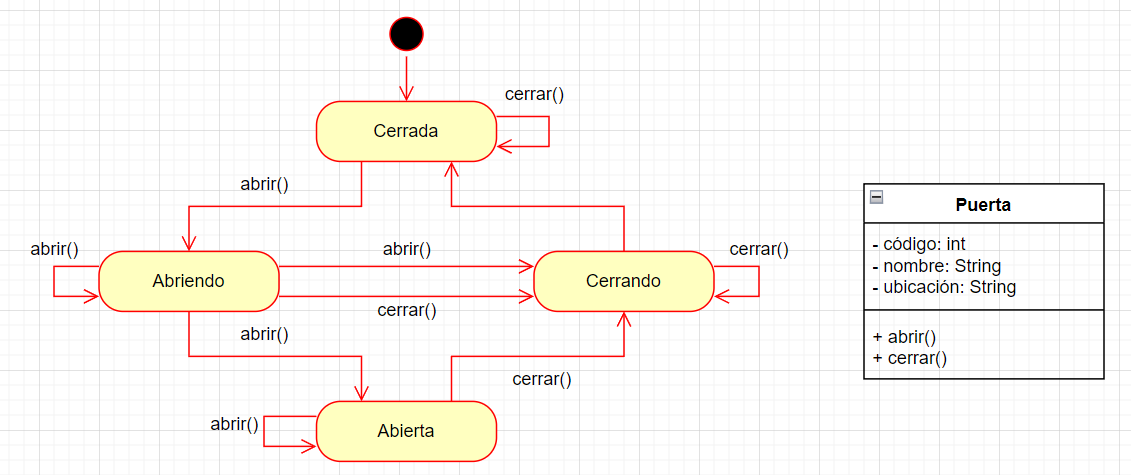
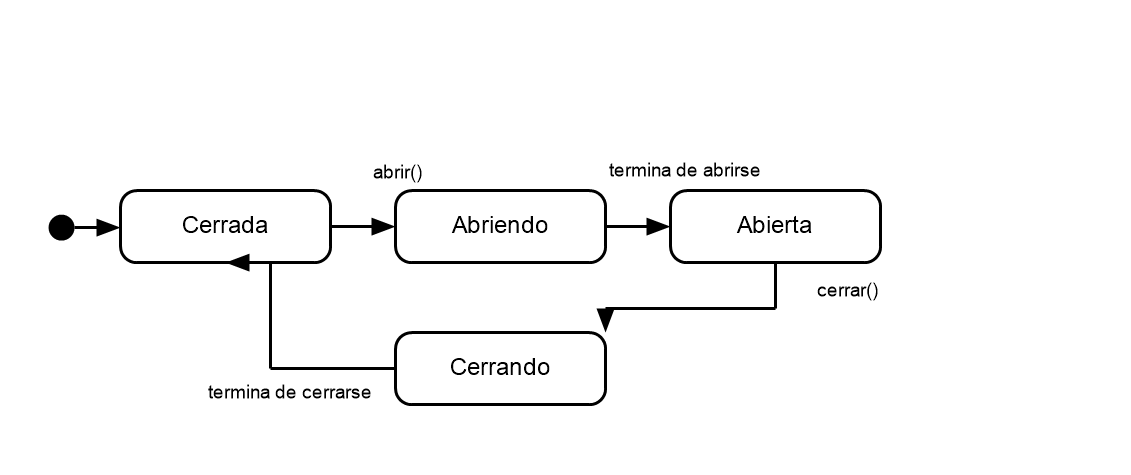
preparando tema 6

Changed region(s): [[0.0309, 0.0295, 0.9903, 1.0], [0.9593, 0.5011, 0.9903, 0.5305], [0.7427, 0.7663, 0.7737, 0.7958]]

diff --git a/UD6_DiagramasComportamiento.md b/UD6_DiagramasComportamiento.md
@@ -1,0 +1,93 @@
+# UD6 - Elaboración de diagramas de comportamiento
+
+- [UD6 - Elaboración de diagramas de comportamiento](#ud6---elaboración-de-diagramas-de-comportamiento)
+  - [1. Diagramas de casos de uso](#1-diagramas-de-casos-de-uso)
+  - [2. Diagramas de secuencia](#2-diagramas-de-secuencia)
+  - [3. Diagramas de estados](#3-diagramas-de-estados)
+
+Los diagramas de comportamiento UML sirven para visualizar el comportamiento dinámico de un sistema. Reflejan como cambian a lo largo del tiempo determinadas actividades del sistema.
+
+Se utilizan para entender el comportamiento que deben tener determinados procesos y mostrar el funcionamiento global del sistema a través de los diferentes procesos que ejecuta.
+
+## 1. Diagramas de casos de uso
+
+`Los Casos de Uso` describen el comportamiento de un sistema desde el punto de vista del usuario. Se utiliza para describir la funcionalidad del sistema independientemente de la implementación.
+
+`Un Caso de Uso` es el único elemento de UML que describe el sistema desde el punto de vista del usuario. Entender el punto de vista del usuario es fundamental para crear sistemas que cumplan con los requerimientos de quién lo va a utilizar y para que sea sencillo de trabajar con ellos. Los casos de uso son fundamentales en la fase de análisis de un sistema, donde se estudia y representa la forma en que los usuarios utilizan un sistema.
+
+Los diagramas de casos de uso son una herramienta que permite que los usuarios potenciales hablen de un sistema desde su propio punto de vista. Implica involucrar a los usuarios en las etapas iniciales de análisis y diseño del sistema. Desde ese punto de vista, definimos un` Caso de Uso` como un conjunto de situaciones respecto a la utilización del sistema.
+
+![](img/EjemploCasoUso.png)
+
+A continuación se explican los diferentes elementos de un diagrama de casos de uso:
+
+- **Actor**: Representa el rol de un usuario del sistema. Todo aquel elemento que interactúa con el sistema
+  - Tipos de actores:
+    - Principales: personas que usan el sistema
+    - Secundarios: personas que mantienen o administran el sistema
+    - Material externo: dispositivos materiales imprescindibles que forman parte del ámbito de la aplicación y deben ser utilizados
+    - Otros sistemas: otros entornos con los que el sistema interactúa
+- **Caso de Uso**: Indica un proceso dentro del propio sistema
+- **Relación**: Cualquier tipo de unión entre elementos del diagrama. Permite conocer las dependencias de los distintos elementos del diagrama, formando secuencias de `Casos de Uso` que representan procesos completos.
+- **Comunicación**: Relación que indica que `un Actor` o `Caso de Uso origen` utiliza `un Caso de Uso destino`. Forma secuencias de Casos de Uso y es el tipo de relación más utilizada.
+- **Inclusión**: Utilizado cuando una instancia del `Caso de Uso origen` incluye también el comportamiento descrito por el `Caso de Uso destino`. Utilizado para Casos de Uso más complejos que requieren la utilización de otros Casos de Uso. No puede utilizarse en la relación Actor-Caso de Uso. Se representa mediante una línea a puntos acompañada de _<< include >>_.
+
+![](img/CasoInclude.png)
+
+- **Extensión**: `El Caso de Uso origen` extiende el comportamiento del `Caso de Uso destino`. Tanto la inclusión como la extensión se hace en puntos indicados y de manera específica dentro de una secuencia de casos de uso. No se permite en la relación Actor-Caso de Uso. Se representa mediante una línea a puntos acompañada de _<< extend >>_.
+
+![](img/CasoUsoExtend.png)
+
+- **Herencia**: `El Caso de Uso origen` hereda la especificación del `Caso de Uso destino` y posiblemente la modifica y/o amplía.
+
+![](img/casoHerencia.png)
+
+- **Subsistema**: Se pueden agrupar varios Casos de Uso en subsistemas. Representan diferentes sistemas semi-independientes en un ámbito funcional dentro del sistema general. Por ejemplo: 
+
+![](img/CasoDeUso.png)
+
+AL diseñar diagramas de casos de uso es importante plantearse una sere de preguntas:
+- ¿Cuáles son las tareas del autor?
+- ¿Qué información crea, modifica, borra o lee el actor?
+- ¿Debe el autor notificar al sistema los cambios extremos?
+- ¿Debe el sistema notificar al actor los cambios internos?
+
+Además, para cada caso de uso debemos describir lo siguiente:
+- Los actores involucrados.
+- El estado inicial del que parte el caso de uso.
+- El flujo básico de eventos ordenados por los que pasa el caso de uso.
+- Los caminos alternativos respecto al flujo básico.
+- El estado final al que llega el caso de uso.
+
+## 2. Diagramas de secuencia
+
+`Los diagramas de secuencia` muestran la interacción entre componentes del sistema desde el punto de vista temporal. La interacción se representa desde el punto de vista de paso de mensajes entre objetos o actores a lo largo del tiempo. Se utiliza para describir procesos internos entre diferentes módulos y describir comunicaciones con otros sistemas o con actores.
+
+En el siguiente diagrama de secuencia se representa un objeto de la clase A que envía un mensaje a un objeto de la clase B solicitando la ejecución  del método m1(). A su vez, este objeto, necesira, para ejecutar el método m1(), enviar dos mensajes a un objeto de la case C, el m2() y el m3(), en ese orden.
+
+![](img/DiagramaSecuencia.png)
+
+Antes de elaborar un diagrama de secuencia es necesario identificar las clases de análisis para cada caso de uso.
+
+## 3. Diagramas de estados
+
+Diagrama de comportamiento desde el punto de vista de los objetos del sistema. Muestra los estados por los que puede pasar uno o varios objetos durante la ejecución de determinados procesos. Se utiliza para reflejar el comportamiento de los objetos del sistema a través de su ciclo de vida.
+
+`Un Diagrama de Estados` muestra una `Máquina de Estados` con el comportamiento del objeto. `Una máquina de estados` especifica las secuencias de estados por las que pasa un objeto a lo largo de su vida en respuesta a eventos, junto con sus respuestas a esos eventos. `Un diagrama de estados` muestra los diferentes estados de un objeto, así como el tránsito entre ellos en respuesta a determinados eventos, tanto internos como externos.
+
+`Un estado` es cada condición del objeto en un determinado instante de tiempo. Se asume que el objeto se encuentra realizando una actividad o a la espera de un evento que le permita el cambio a otro estado.
+
+`Un evento` es un acontecimiento o estímulo que activa una transición entre estados. 
+
+`Una transición` es el proceso en el que se realiza un cambio de estado. Se realiza como respuesta a un evento específico y viene acompañada de la realización de un conjunto de acciones por parte del objeto que realiza el cambio entre estados.
+
+La representación de los elementos de un diagrama de estados es la siguiente:
+
+![](img/DiagramaEstados.png)
+
+A continuación se muestra un ejemplo de diagrama de estados por los que puede pasar una puerta:
+
+![](img/EstadosPuerta.png)
+
+
+
